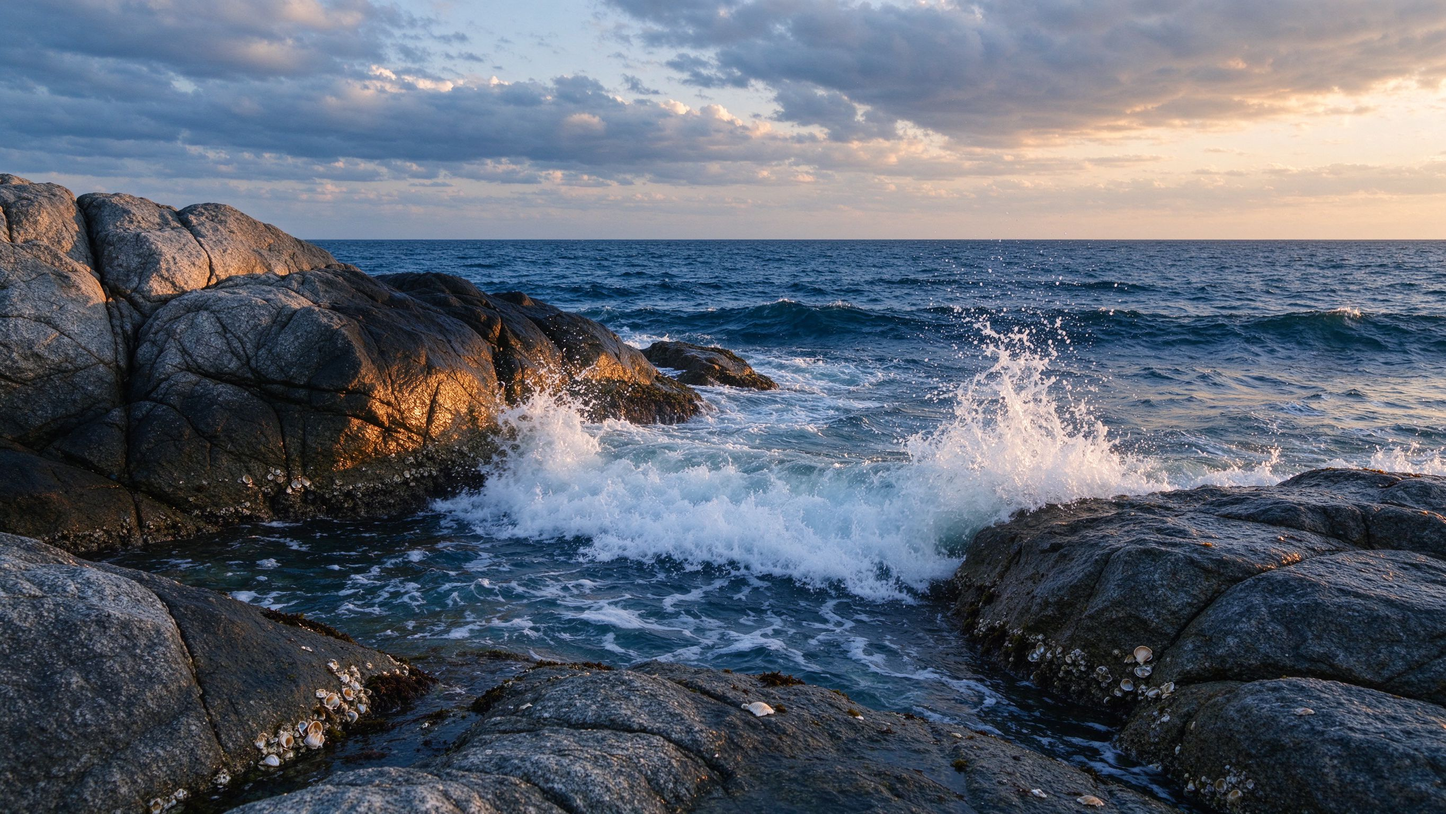
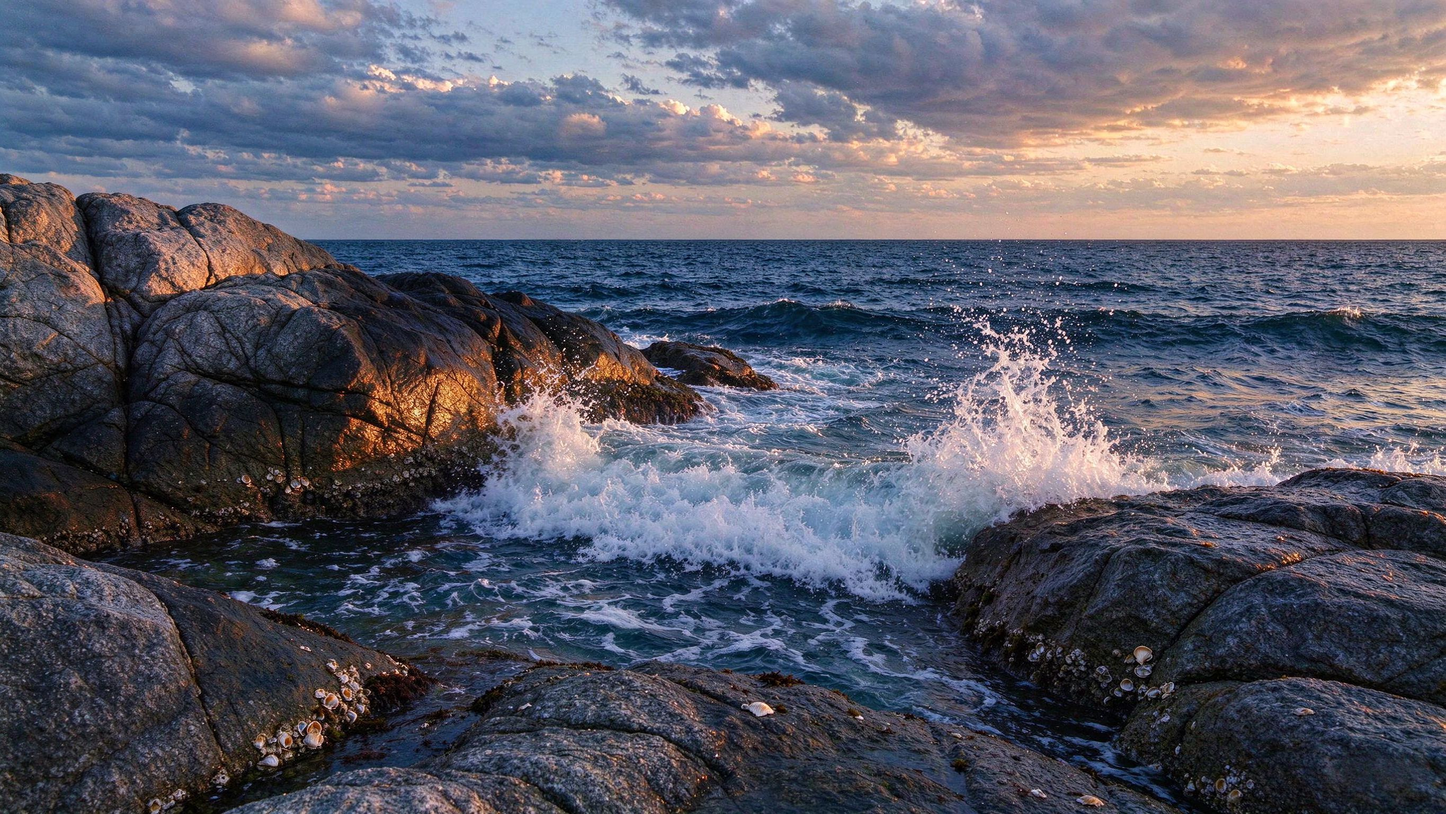
data(benchmark): 成对图第二版可用 + 首轮真实修复侧测量（removal 0.165 下界）
- 第二版 _clean 为同一张图只涂抹水印（JPEG 噪点除外）=> 像素配对成立。
- 真值提取：|wm-clean| MAE -> 25x25 平滑 -> 阈值8 -> 右下最大连通域 -> 膨胀8px；
  三对样本提取面积 0.42%-1.04%（足迹 255x96 ~0.58%，同量级）。
- 首轮（general+LaMa, n=10）：removal 0.165（下界）、overdraw 1.377、spill 0.63%、
  collateral 5.66（主要是 JPEG 噪点）。
- 指标弱点：参考系是第三方工具去水印结果（非原图），其 inpainting 选择系统性压低 removal
  => 0.165 是下界；可复现，适合作回归门禁（第二基线）。
- 两个真实产品信号：pair_04 海边礁石 general 0 区域完全漏检；
  pair_10 玻璃幕墙 39 区域、overdraw 9.11（误报集中顶边）。

diff --git a/benchmark_real/incoming/pairs/README.md b/benchmark_real/incoming/pairs/README.md
@@ -1,24 +1,35 @@
-# incoming/pairs —— 同场景成对图（**当前不可用作像素真值**）
+# incoming/pairs —— 同图成对图（✅ 已可用）
 
-## 状态：❌ 非像素配对（2026-10-19）
-用户提供 10 对「带水印 / 无水印」图（2730×1536），场景一一对应。
-但逐像素比对显示：**两版有 98.4%–99.9% 的像素不同**，MAE 全图 4.4–10.1，
-水印区（340×128 足迹）MAE 11.4–19.1（约为其余区域的 1.5–3.5×）。
+## 状态：✅ 像素配对（2026-10-19 第二次取数）
+10 对「带水印 / 原地去水印」图（2730×1536）。第二版 `_clean` 已是**同一张图**只涂抹
+右下角水印的结果（云/山/树逐像素一致；差异图满屏淡红为 JPEG 重压缩噪点，右下角为水印区）。
 
-⇒ 「无水印」版是**同一场景的重新生成**，不是「同一张图、只去掉水印区域」的结果。
-   因此 `truth = |wm − clean|` 会覆盖几乎整幅画面，**不能用于去痕率/检测评估**
-   （top-1% 差异像素铺满 74–100% 画面，右下区仅占 4–39%）。
+## 真值提取方法（`scripts/_pair_removal_1219.py`）
+`|wm − clean|` 的 MAE 图 → 25×25 盒式平滑（压掉 JPEG 噪点）→ 阈值 8 → 取中心在右下区
+（cx>0.6W, cy>0.7H）的最大连通域 → 膨胀 8px 包住抗锯齿边缘。
+标定：三对样本提取出的组件面积 0.42%–1.04%，与豆包足迹（255×96 ≈ 0.58%）同量级。
 
-证据：`_pair_check.png`（三联图：带水印 / 无水印 / 差异图）。
+## 首轮测量（preset=general，LaMa，n=10）
+| 指标 | 值 |
+|---|---|
+| **removal（复现参考系的程度）** | **0.165** |
+| overdraw（掩码/真值） | 1.377 |
+| spill（外溢） | 0.63% |
+| collateral（真值外 MAE） | 5.66 |
 
-## 需要什么（修正后的取数要求）
-「无水印」版必须是**同一张图、只改动水印区域**：
-- 用**原地修复类**工具：美图秀秀「消除笔」/ 醒图「消除」/ Photoshop「内容识别填充」；
-  **只涂抹右下角水印文字**，不要用「重新生成/扩图/高清修复」类功能。
-- **自检标准**：两张图应**只有右下角一小块不同**（约占全图 0.5%–2%），
-  其余像素逐字节相同。若整张图都变了，说明工具重新生成了整图 → 不可用。
-- ⚠ 不要用本工作台产出 clean 版（自己测自己，数据无意义）。
+### ⚠ 指标弱点（诚实声明）
+`_clean` 是**第三方工具的去水印结果**，不是去水印前的原图，因此：
+- collateral ≈ 5.66 主要来自 JPEG 重压缩噪点（不是"擦坏了"）；
+- removal 度量的是「我的输出向该参考收敛了多少」，参考系自身的修复选择（它的 inpainting
+  与 LaMa 不同）会**系统性压低**该值 ⇒ 0.165 是**下界**，不是真实去痕率。
+- 但该指标**可复现**，适合作为回归门禁（第二基线）。
 
-## 现有文件的用途
-- `pair_NN_wm.jpg`：**有效**——真实豆包水印图，可用于检测评估与真实集扩样；
-- `pair_NN_clean.jpg`：当前**不可用**（重新生成版）；若按上面要求重做，可直接替换。
+## 顺带发现的两个真实产品信号
+| 图 | 现象 | 诊断 |
+|---|---|---|
+| pair_04（海边礁石） | `general` **0 区域**（完全漏检） | 水印在 (2361,1273,369,131) 右下角，`ai_logo` 只在 (1403,1316,68,45) 出一个无关小区域 ⇒ 亮/纹理底上水印证据不足 |
+| pair_10（玻璃幕墙） | **39 个区域**、overdraw **9.11** | 误报集中在**顶边**（y=0 的一排 translucent）——玻璃幕墙的高反差边 ⇒ 过检 |
+
+## 后续
+1. 把该测量固化为 `scripts/pair_removal_probe.py` 常驻门禁（第二基线，防回退）；
+2. pair_04 漏检 / pair_10 过检各做一次归因（是否值得动检测）。

diff --git a/.workbuddy/memory/2026-10-19.md b/.workbuddy/memory/2026-10-19.md
@@ -56,3 +56,17 @@ mask_iou 0.3325 / mask_coverage 0.0162 / coverage_ratio 2.83（红线：0.45 / 0
   （美图「消除笔」/醒图「消除」/PS 内容识别）**只涂抹右下角水印**；自检标准＝两张图只有右下角
   0.5%–2% 像素不同，其余逐字节相同；不要用本工作台产出（循环）。
 - `pair_NN_wm.jpg` **有效**（真实水印图，可扩样）；`pair_NN_clean.jpg` 待按新要求重做。
+
+### 成对图第二版（2026-10-19）：✅ 已可用，完成首轮修复侧测量
+- 第二版 `_clean` 是**同一张图只涂抹右下角水印**的结果（云/山/树逐像素一致；满屏差异是
+  JPEG 重压缩噪点）⇒ 像素配对成立。
+- **真值提取**：`|wm−clean|` MAE → 25×25 平滑 → 阈值 8 → 中心在右下区的最大连通域 →
+  膨胀 8px。三对样本提取面积 0.42%–1.04%（豆包足迹 255×96 ≈ 0.58%，同量级）。
+- **首轮测量**（general + LaMa，n=10）：removal **0.165**（下界）、overdraw 1.377、
+  spill 0.63%、collateral 5.66（主要是 JPEG 噪点，非损坏）。
+- **指标弱点**：参考系是第三方工具的去水印结果（非原图），其 inpainting 选择会系统性压低
+  removal ⇒ 0.165 是**下界**；但可复现，适合做回归门禁（第二基线）。
+- **两个真实产品信号**：① pair_04（海边礁石）`general` **0 区域完全漏检**
+  （水印在 2361,1273,369,131；ai_logo 只在 1403,1316 出无关小区）；
+  ② pair_10（玻璃幕墙）**39 个区域、overdraw 9.11**（误报集中在顶边 y=0 一排 translucent）。
+- 详见 `benchmark_real/incoming/pairs/README.md`。
